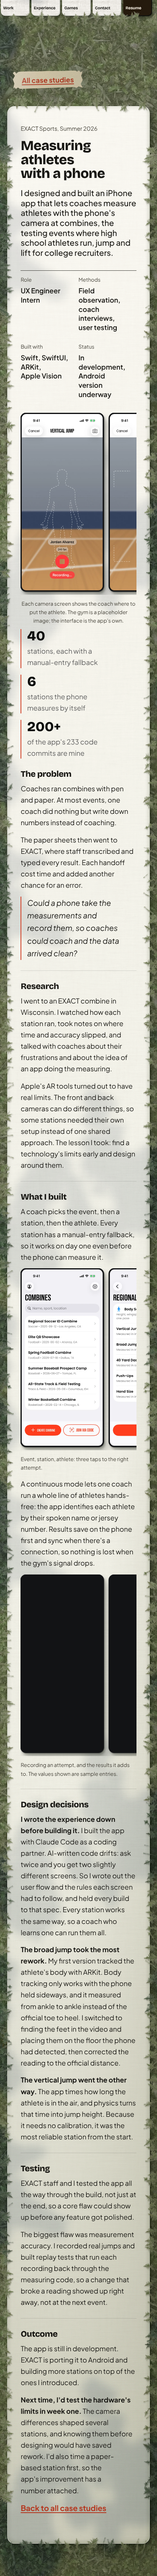
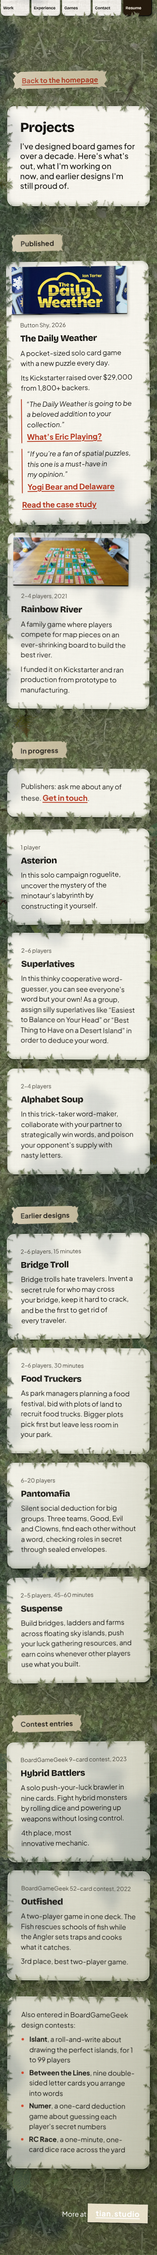
Pieces get their light positions before the first paint
Until blades.js ran, each card was lit as if it were the whole page (a dark rim
that then changed); a small inline script now sets the offsets first.

Claude-Session: https://claude.ai/code/session_01PnSu5xV1ctRTnpq1nQqMsJ

diff --git a/index.html b/index.html
@@ -108,6 +108,11 @@
    <p class="s-form-note" role="status"></p>
   </div></form></section>
 </main>
-</div><script>(() => { const done = () => document.documentElement.classList.add("ground-in");
+</div><script>(() => { // each piece learns where it lies before the page is first drawn, so its light is right from the start
+  // (until blades.js did this, every card was lit as if it were the whole page: a dark rim that then changed)
+  const sc = document.querySelector(".x-i"); if (!sc) return; const R = sc.getBoundingClientRect();
+  sc.style.setProperty("--pw", sc.offsetWidth + "px"); sc.style.setProperty("--ph", sc.offsetHeight + "px");
+  document.querySelectorAll(".card, .hand a").forEach(el => { const r = el.getBoundingClientRect();
+    el.style.setProperty("--ox", (r.left + r.width / 2 - el.offsetWidth / 2 - R.left) + "px"); el.style.setProperty("--oy", (r.top + r.height / 2 - el.offsetHeight / 2 - R.top) + "px"); }); })();</script><script>(() => { const done = () => document.documentElement.classList.add("ground-in");
   window.__floor.groundP.then(() => { const F = window.__floor || {}; if (document.prerendering || !F.drawn || F.panned) { document.documentElement.classList.add("ground-now"); done(); } else requestAnimationFrame(done); });
   setTimeout(done, 5000); })();</script><script src="assets/site-r.js?v=20261029h" defer></script><script src="assets/blades.js?v=20261030a" defer></script><script src="assets/forest.js?v=20261029m" defer></script></body></html>

diff --git a/work/birds-lab/index.html b/work/birds-lab/index.html
@@ -125,7 +125,12 @@
 </main>
 
 </div>
-<script>(() => { const done = () => document.documentElement.classList.add("ground-in");
+<script>(() => { // each piece learns where it lies before the page is first drawn, so its light is right from the start
+  // (until blades.js did this, every card was lit as if it were the whole page: a dark rim that then changed)
+  const sc = document.querySelector(".x-i"); if (!sc) return; const R = sc.getBoundingClientRect();
+  sc.style.setProperty("--pw", sc.offsetWidth + "px"); sc.style.setProperty("--ph", sc.offsetHeight + "px");
+  document.querySelectorAll(".card, .hand a").forEach(el => { const r = el.getBoundingClientRect();
+    el.style.setProperty("--ox", (r.left + r.width / 2 - el.offsetWidth / 2 - R.left) + "px"); el.style.setProperty("--oy", (r.top + r.height / 2 - el.offsetHeight / 2 - R.top) + "px"); }); })();</script><script>(() => { const done = () => document.documentElement.classList.add("ground-in");
   window.__floor.groundP.then(() => { const F = window.__floor || {}; if (document.prerendering || !F.drawn || F.panned) { document.documentElement.classList.add("ground-now"); done(); } else requestAnimationFrame(done); });
   setTimeout(done, 5000); })();</script><script src="../../assets/blades.js?v=20261030a" defer></script><script src="../../assets/forest.js?v=20261029m" defer></script>
 </body>

diff --git a/work/daily-weather/index.html b/work/daily-weather/index.html
@@ -148,7 +148,12 @@
 </main>
 
 </div>
-<script>(() => { const done = () => document.documentElement.classList.add("ground-in");
+<script>(() => { // each piece learns where it lies before the page is first drawn, so its light is right from the start
+  // (until blades.js did this, every card was lit as if it were the whole page: a dark rim that then changed)
+  const sc = document.querySelector(".x-i"); if (!sc) return; const R = sc.getBoundingClientRect();
+  sc.style.setProperty("--pw", sc.offsetWidth + "px"); sc.style.setProperty("--ph", sc.offsetHeight + "px");
+  document.querySelectorAll(".card, .hand a").forEach(el => { const r = el.getBoundingClientRect();
+    el.style.setProperty("--ox", (r.left + r.width / 2 - el.offsetWidth / 2 - R.left) + "px"); el.style.setProperty("--oy", (r.top + r.height / 2 - el.offsetHeight / 2 - R.top) + "px"); }); })();</script><script>(() => { const done = () => document.documentElement.classList.add("ground-in");
   window.__floor.groundP.then(() => { const F = window.__floor || {}; if (document.prerendering || !F.drawn || F.panned) { document.documentElement.classList.add("ground-now"); done(); } else requestAnimationFrame(done); });
   setTimeout(done, 5000); })();</script><script src="../../assets/blades.js?v=20261030a" defer></script><script src="../../assets/forest.js?v=20261029m" defer></script>
 </body>

diff --git a/work/embodied-cognition/index.html b/work/embodied-cognition/index.html
@@ -145,7 +145,12 @@
 </main>
 
 </div>
-<script>(() => { const done = () => document.documentElement.classList.add("ground-in");
+<script>(() => { // each piece learns where it lies before the page is first drawn, so its light is right from the start
+  // (until blades.js did this, every card was lit as if it were the whole page: a dark rim that then changed)
+  const sc = document.querySelector(".x-i"); if (!sc) return; const R = sc.getBoundingClientRect();
+  sc.style.setProperty("--pw", sc.offsetWidth + "px"); sc.style.setProperty("--ph", sc.offsetHeight + "px");
+  document.querySelectorAll(".card, .hand a").forEach(el => { const r = el.getBoundingClientRect();
+    el.style.setProperty("--ox", (r.left + r.width / 2 - el.offsetWidth / 2 - R.left) + "px"); el.style.setProperty("--oy", (r.top + r.height / 2 - el.offsetHeight / 2 - R.top) + "px"); }); })();</script><script>(() => { const done = () => document.documentElement.classList.add("ground-in");
   window.__floor.groundP.then(() => { const F = window.__floor || {}; if (document.prerendering || !F.drawn || F.panned) { document.documentElement.classList.add("ground-now"); done(); } else requestAnimationFrame(done); });
   setTimeout(done, 5000); })();</script><script src="../../assets/blades.js?v=20261030a" defer></script><script src="../../assets/forest.js?v=20261029m" defer></script>
 </body>

diff --git a/work/exact-sports/index.html b/work/exact-sports/index.html
@@ -176,7 +176,12 @@
 </main>
 
 </div>
-<script>(() => { const done = () => document.documentElement.classList.add("ground-in");
+<script>(() => { // each piece learns where it lies before the page is first drawn, so its light is right from the start
+  // (until blades.js did this, every card was lit as if it were the whole page: a dark rim that then changed)
+  const sc = document.querySelector(".x-i"); if (!sc) return; const R = sc.getBoundingClientRect();
+  sc.style.setProperty("--pw", sc.offsetWidth + "px"); sc.style.setProperty("--ph", sc.offsetHeight + "px");
+  document.querySelectorAll(".card, .hand a").forEach(el => { const r = el.getBoundingClientRect();
+    el.style.setProperty("--ox", (r.left + r.width / 2 - el.offsetWidth / 2 - R.left) + "px"); el.style.setProperty("--oy", (r.top + r.height / 2 - el.offsetHeight / 2 - R.top) + "px"); }); })();</script><script>(() => { const done = () => document.documentElement.classList.add("ground-in");
   window.__floor.groundP.then(() => { const F = window.__floor || {}; if (document.prerendering || !F.drawn || F.panned) { document.documentElement.classList.add("ground-now"); done(); } else requestAnimationFrame(done); });
   setTimeout(done, 5000); })();</script><script src="../../assets/blades.js?v=20261030a" defer></script><script src="../../assets/forest.js?v=20261029m" defer></script>
 </body>

diff --git a/projects/index.html b/projects/index.html
@@ -111,7 +111,12 @@
 </main>
 
 </div>
-<script>(() => { const done = () => document.documentElement.classList.add("ground-in");
+<script>(() => { // each piece learns where it lies before the page is first drawn, so its light is right from the start
+  // (until blades.js did this, every card was lit as if it were the whole page: a dark rim that then changed)
+  const sc = document.querySelector(".x-i"); if (!sc) return; const R = sc.getBoundingClientRect();
+  sc.style.setProperty("--pw", sc.offsetWidth + "px"); sc.style.setProperty("--ph", sc.offsetHeight + "px");
+  document.querySelectorAll(".card, .hand a").forEach(el => { const r = el.getBoundingClientRect();
+    el.style.setProperty("--ox", (r.left + r.width / 2 - el.offsetWidth / 2 - R.left) + "px"); el.style.setProperty("--oy", (r.top + r.height / 2 - el.offsetHeight / 2 - R.top) + "px"); }); })();</script><script>(() => { const done = () => document.documentElement.classList.add("ground-in");
   window.__floor.groundP.then(() => { const F = window.__floor || {}; if (document.prerendering || !F.drawn || F.panned) { document.documentElement.classList.add("ground-now"); done(); } else requestAnimationFrame(done); });
   setTimeout(done, 5000); })();</script><script src="../assets/blades.js?v=20261030a" defer></script><script src="../assets/forest.js?v=20261029m" defer></script>
 </body>
